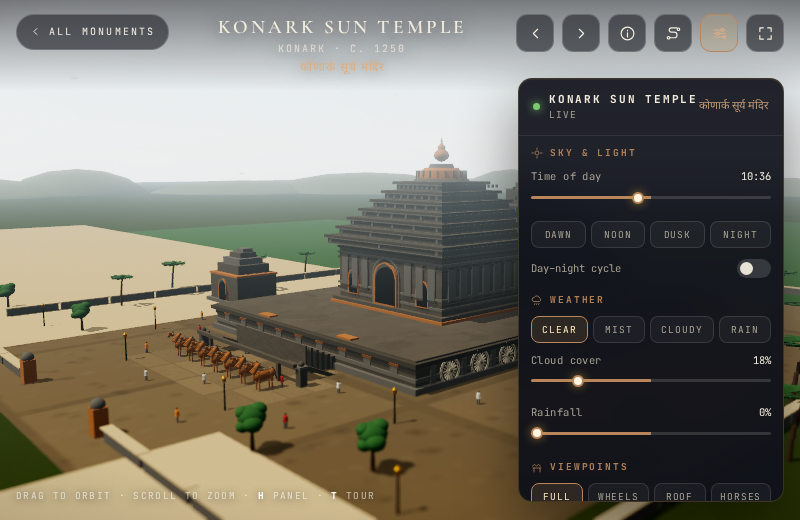
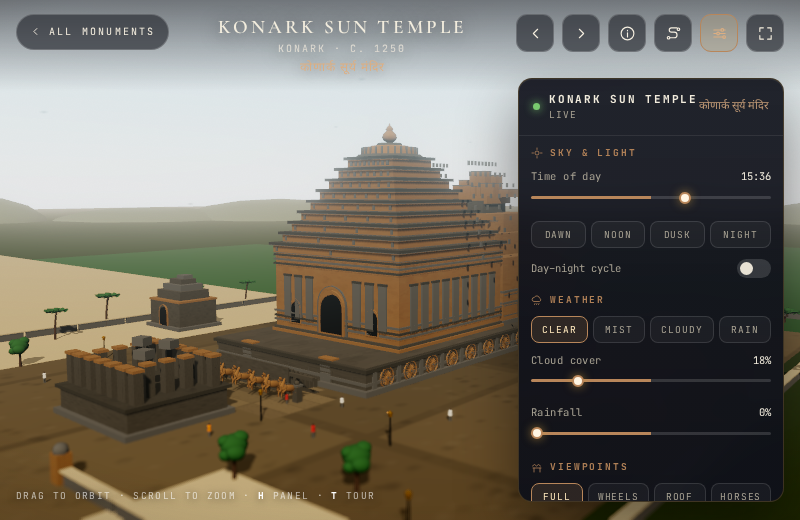
Sanchi and Konark: stone tinted to the real colour
Both were rendering orange because sandstoneBuff under a warm key and the
grade pushes to terracotta. Sanchi is pale sandstone, so its stone is tinted
0xdfd3b4 — the dome, the vedika and the four toranas now read as one pale
material. Konark is khondalite, a grey-brown, tinted 0xbfae92.

Neither was a geometry fault; the models were right and the colour was not.

diff --git a/assets/js/monuments/konark-sun-temple.js b/assets/js/monuments/konark-sun-temple.js
@@ -72,6 +72,8 @@ export default {
 
   build(ctx) {
     const { add, box, cyl, sph, cone, torus, block, col, plane } = ctx;
+    // khondalite is a grey-brown stone, not terracotta
+    const PALE = (() => { const mm = ctx.mat('sandstoneBuff'); if (!mm || !mm.clone) return 'sandstoneBuff'; const c = mm.clone(); c.color.setHex(0xbfae92); return c; })();
     const PI = Math.PI;
     const arch = ctx.arch, archFrame = ctx.archFrame;
 
@@ -106,12 +108,12 @@ export default {
     const WR = 1.485;                 // 2.97 m diameter
     function wheel(cx, cy, cz, side) {
       const x = cx * side;
-      add('sandstoneBuff', torus(WR, 0.17, 6, 24), x, cy, cz, { ry: PI / 2 });
+      add(PALE, torus(WR, 0.17, 6, 24), x, cy, cz, { ry: PI / 2 });
       add('granite', torus(WR * 0.79, 0.09, 5, 20), x, cy, cz, { ry: PI / 2 });
-      add('sandstoneBuff', cyl(0.40, 0.40, 0.55, 10), x, cy, cz, { rz: PI / 2 });
+      add(PALE, cyl(0.40, 0.40, 0.55, 10), x, cy, cz, { rz: PI / 2 });
       add('grey', cyl(0.20, 0.20, 0.68, 8), x, cy, cz, { rz: PI / 2 });
       for (let i = 0; i < 8; i++) {
-        add('sandstoneBuff', box(0.17, WR * 1.5, 0.13), x, cy, cz, { rx: (i * PI) / 8 });
+        add(PALE, box(0.17, WR * 1.5, 0.13), x, cy, cz, { rx: (i * PI) / 8 });
       }
       // beaded rim, sixteen blocks
       for (let i = 0; i < 16; i++) {
@@ -128,7 +130,7 @@ export default {
     for (let side = -1; side <= 1; side += 2) {
       for (let i = 0; i < 7; i++) {
         add('grey', box(1.6, 1.5, 0.22), -14.4 + i * 4.8, 2.3, (PZ - 0.15) * side);
-        add('sandstoneBuff', box(2.0, 0.26, 0.28), -14.4 + i * 4.8, 3.15, (PZ - 0.1) * side);
+        add(PALE, box(2.0, 0.26, 0.28), -14.4 + i * 4.8, 3.15, (PZ - 0.1) * side);
       }
     }
 
@@ -137,7 +139,7 @@ export default {
     for (const s of [-1, 1]) {
       block('granite', 2.8, 0.5, 9.0, s * 9.6, 0, 38.6, { rx: -0.4 });
       block('granite', 2.8, TOP, 1.2, s * 9.6, 0, 34.4);
-      block('sandstoneBuff', 3.1, 0.45, 1.5, s * 9.6, TOP, 34.4);
+      block(PALE, 3.1, 0.45, 1.5, s * 9.6, TOP, 34.4);
       for (let i = 0; i < 4; i++) block('grey', 2.2, 0.5, 0.5, s * 9.6, 1.0 + i * 0.75, 35.0);
       block('granite', 1.0, 2.4, 1.0, s * 12.4, 0, 43.4);
       block('grey', 1.3, 0.28, 1.3, s * 12.4, 2.4, 43.4);
@@ -146,11 +148,11 @@ export default {
     add('paving', plane(22, 11), 0, 0.12, 42.0, { rx: -PI / 2 });
 
     /* ---------- jagamohana: pitha and bada ----------------------------- */
-    block('sandstoneBuff', JW + 1.2, 0.7, JW + 1.2, 0, TOP, JZ);
+    block(PALE, JW + 1.2, 0.7, JW + 1.2, 0, TOP, JZ);
     block('granite', JW + 0.6, 0.5, JW + 0.6, 0, TOP + 0.7, JZ);
     block('grey', JW, PITH - TOP - 1.2, JW, 0, TOP + 1.2, JZ);
 
-    block('sandstoneBuff', JW, BADA - PITH, JW, 0, PITH, JZ);
+    block(PALE, JW, BADA - PITH, JW, 0, PITH, JZ);
     // horizontal mouldings, the bands of a Kalinga bada
     [[1.0, 'grey'], [1.7, 'stone'], [2.6, 'grey'], [11.4, 'stone'],
       [12.2, 'grey'], [13.0, 'stone']].forEach(([h, k]) => {
@@ -171,11 +173,11 @@ export default {
     }
     // the great eastern doorway
     add('dark', arch(5.2, 7.0, 0.6), 0, PITH, JZ + JW / 2 - 0.1);
-    add('sandstoneBuff', archFrame(6.2, 7.8, 0.45, 0.5), 0, PITH, JZ + JW / 2 + 0.05);
+    add(PALE, archFrame(6.2, 7.8, 0.45, 0.5), 0, PITH, JZ + JW / 2 + 0.05);
     add('grey', archFrame(7.2, 8.6, 0.3, 0.35), 0, PITH, JZ + JW / 2 + 0.02);
     for (const s of [-1, 1]) {
       add('dark', arch(2.3, 4.0, 0.4), s * 9.4, PITH + 0.9, JZ + JW / 2 - 0.1);
-      add('sandstoneBuff', archFrame(3.0, 4.6, 0.26, 0.3), s * 9.4, PITH + 0.9, JZ + JW / 2 + 0.05);
+      add(PALE, archFrame(3.0, 4.6, 0.26, 0.3), s * 9.4, PITH + 0.9, JZ + JW / 2 + 0.05);
     }
 
     /* ---------- roof: nine pidha tiers in three stages ------------------
@@ -187,7 +189,7 @@ export default {
     for (let i = 0; i < TIERS; i++) {
       const w = 30.6 - i * 2.45;
       const dh = tierH - 0.5;
-      block('sandstoneBuff', w, dh, w, 0, ry, JZ);                    // drum
+      block(PALE, w, dh, w, 0, ry, JZ);                    // drum
       block('grey', w + 0.14, 0.12, w + 0.14, 0, ry + 0.02, JZ);      // shadow line
       block('stone', w + 1.15, 0.5, w + 1.15, 0, ry + dh, JZ);        // potika cornice
       block('grey', w + 1.22, 0.1, w + 1.22, 0, ry + dh - 0.06, JZ);  // under-cut
@@ -208,24 +210,24 @@ export default {
         block('grey', tw - 0.2, 0.55, tw - 0.2, 0, ry - 0.1, JZ);
         for (let k = 0; k < 8; k++) {
           const t3 = -tw / 2 + 1.6 + k * ((tw - 3.2) / 7);
-          add('sandstoneBuff', box(0.5, 0.9, 0.5), t3, ry + 0.3, JZ + tw / 2 - 0.5);
-          add('sandstoneBuff', box(0.5, 0.9, 0.5), t3, ry + 0.3, JZ - tw / 2 + 0.5);
+          add(PALE, box(0.5, 0.9, 0.5), t3, ry + 0.3, JZ + tw / 2 - 0.5);
+          add(PALE, box(0.5, 0.9, 0.5), t3, ry + 0.3, JZ - tw / 2 + 0.5);
         }
       }
     }
 
     /* ---------- amalaka, beki and kalasha ------------------------------ */
     add('granite', cyl(5.8, 6.4, 0.5, 24), 0, AMALA - 1.75, JZ);
-    add('sandstoneBuff', cyl(5.0, 5.3, 1.3, 28), 0, AMALA - 0.85, JZ);
+    add(PALE, cyl(5.0, 5.3, 1.3, 28), 0, AMALA - 0.85, JZ);
     // the fluted rim of the crown stone
     for (let i = 0; i < 28; i++) {
       const a = (i / 28) * PI * 2;
       add('grey', box(0.44, 1.28, 0.36), Math.cos(a) * 5.1, AMALA - 0.85, JZ + Math.sin(a) * 5.1, { ry: -a });
     }
-    add('sandstoneBuff', cyl(3.4, 4.4, 0.42, 20), 0, AMALA - 0.1, JZ);   // beki
+    add(PALE, cyl(3.4, 4.4, 0.42, 20), 0, AMALA - 0.1, JZ);   // beki
     add('granite', cyl(2.2, 2.6, 0.7, 16), 0, AMALA + 0.28, JZ);
     // the kalasha: a pot, a flared mouth and a spike
-    add('sandstoneBuff', ctx.lathe([[0.06, 0], [0.55, 0.12], [1.15, 0.55], [1.4, 1.05],
+    add(PALE, ctx.lathe([[0.06, 0], [0.55, 0.12], [1.15, 0.55], [1.4, 1.05],
       [1.22, 1.65], [0.78, 2.05], [0.58, 2.3], [0.74, 2.6], [0.46, 2.95], [0.16, 3.35],
       [0.06, 3.7]], 16), 0, AMALA + 0.6, JZ);
     add('gold', cone(0.24, 0.85, 8), 0, KAL + 0.3, JZ);
@@ -233,13 +235,13 @@ export default {
     /* ---------- the broken deul behind: a rough, collapsed mass -------- */
     const DZ = -22;
     block('grey', 30.4, 1.0, 30.4, 0, TOP, DZ);
-    block('sandstoneBuff', 30.0, 5.4, 30.0, 0, TOP + 1.0, DZ);
+    block(PALE, 30.0, 5.4, 30.0, 0, TOP + 1.0, DZ);
     block('grey', 30.4, 0.4, 30.4, 0, TOP + 4.2, DZ);
     block('grey', 30.4, 0.4, 30.4, 0, TOP + 6.4, DZ);
-    block('sandstoneBuff', 29.6, 6.4, 29.6, 0, TOP + 6.8, DZ);
+    block(PALE, 29.6, 6.4, 29.6, 0, TOP + 6.8, DZ);
     // offset upper masses, each smaller and shifted, as if fallen in on itself
-    block('sandstoneBuff', 24.0, 4.4, 23.0, -0.8, TOP + 13.2, DZ + 0.6);
-    block('sandstoneBuff', 16.5, 3.8, 15.5, 1.4, TOP + 17.6, DZ - 1.2);
+    block(PALE, 24.0, 4.4, 23.0, -0.8, TOP + 13.2, DZ + 0.6);
+    block(PALE, 16.5, 3.8, 15.5, 1.4, TOP + 17.6, DZ - 1.2);
     block('granite', 10.0, 2.6, 9.0, -1.2, TOP + 21.4, DZ + 1.0);
     // masonry courses, shallow and irregular
     for (let i = 0; i < 10; i++) {
@@ -257,10 +259,10 @@ export default {
     // jagged broken crown
     const jag = [[-4.6, 3.6, 1.8], [-1.8, 2.2, 2.6], [1.0, 4.6, 1.3], [3.2, 2.8, 2.2],
       [5.0, 1.6, 3.0], [-3.2, 2.4, 2.8], [2.4, 1.4, 3.4], [0.2, 5.4, 1.1]];
-    block('sandstoneBuff', 10.4, 1.6, 9.4, -0.6, TOP + 23.4, DZ + 0.4);
+    block(PALE, 10.4, 1.6, 9.4, -0.6, TOP + 23.4, DZ + 0.4);
     jag.forEach(([x, h, d], i) => {
       const zz = DZ + ((i % 2) ? 1.2 : -1.4);
-      block('sandstoneBuff', 3.2 + (i % 3) * 0.8, h, d + 1.4, x, TOP + 24.8, zz);
+      block(PALE, 3.2 + (i % 3) * 0.8, h, d + 1.4, x, TOP + 24.8, zz);
       block('grey', 3.4 + (i % 3) * 0.8, 0.18, d + 1.6, x, TOP + 24.8 + h, zz);
     });
     // slumped shoulders of masonry
@@ -284,13 +286,13 @@ export default {
       for (let i = -3; i <= 3; i++) {
         for (const s of [-1, 1]) {
           block('granite', 1.3, 4.0, 1.3, i * 2.7, 4.05, cz + s * 5.6);
-          block('sandstoneBuff', 1.6, 0.36, 1.6, i * 2.7, 8.05, cz + s * 5.6);
+          block(PALE, 1.6, 0.36, 1.6, i * 2.7, 8.05, cz + s * 5.6);
         }
       }
       for (let i = -2; i <= 2; i++) {
         for (const s of [-1, 1]) {
           block('granite', 1.3, 4.0, 1.3, s * 6.0, 4.05, cz + i * 2.8);
-          block('sandstoneBuff', 1.6, 0.36, 1.6, s * 6.0, 8.05, cz + i * 2.8);
+          block(PALE, 1.6, 0.36, 1.6, s * 6.0, 8.05, cz + i * 2.8);
         }
       }
       // stumps of the fallen roof
@@ -314,7 +316,7 @@ export default {
         const [px, pz] = P(dx, dz);
         add(k, sph(1, 12), px, dy * s, pz, Object.assign({ ry, sx: a * s, sy: b * s, sz: cc * s }, o || {}));
       };
-      const B = 'sandstoneBuff', G = 'granite';
+      const B = PALE, G = 'granite';
       /* barrel, chest and rump: the body is carried at a slight angle, the
          horse rearing, so the chest rides higher than the quarters */
       ell(B, 0, 2.12, 0.05, 0.42, 0.50, 1.00, { rx: -0.20 });
@@ -361,9 +363,9 @@ export default {
     (function shrine(cx, cz) {
       block('grey', 13, 0.8, 11, cx, 0, cz);
       block('granite', 11.4, 5.2, 9.4, cx, 0.8, cz);
-      block('sandstoneBuff', 11.8, 0.4, 9.8, cx, 6.0, cz);
+      block(PALE, 11.8, 0.4, 9.8, cx, 6.0, cz);
       add('dark', arch(2.6, 4.0, 0.4), cx, 0.8, cz + 4.8);
-      add('sandstoneBuff', archFrame(3.3, 4.6, 0.26, 0.3), cx, 0.8, cz + 4.9);
+      add(PALE, archFrame(3.3, 4.6, 0.26, 0.3), cx, 0.8, cz + 4.9);
       block('granite', 9.0, 1.9, 7.4, cx, 6.4, cz);
       block('grey', 7.0, 1.3, 5.6, cx, 8.3, cz);
       block('granite', 4.6, 1.1, 3.8, cx, 9.6, cz);
@@ -390,7 +392,7 @@ export default {
         }
       }
       for (const s of [-1, 1]) {
-        block('sandstoneBuff', 1.6, 3.2, 1.6, s * 15, 0, D);
+        block(PALE, 1.6, 3.2, 1.6, s * 15, 0, D);
         add('grey', sph(0.85, 8), s * 15, 3.4, D);
       }
     })();

diff --git a/monuments/sanchi-stupa.html b/monuments/sanchi-stupa.html
@@ -8,8 +8,8 @@
 <meta name="theme-color" content="#b8a888">
 <meta name="author" content="Dr Sohil Momin">
 <link rel="icon" href="../assets/img/favicon.svg" type="image/svg+xml">
-<link rel="stylesheet" href="../assets/css/fonts.css?v=72d9b489f8">
-<link rel="stylesheet" href="../assets/css/monument.css?v=72d9b489f8">
+<link rel="stylesheet" href="../assets/css/fonts.css?v=94f1bac383">
+<link rel="stylesheet" href="../assets/css/monument.css?v=94f1bac383">
 <meta property="og:type" content="website">
 <meta property="og:title" content="Sanchi Stupa — 3D miniature · INDIA">
 <meta property="og:description" content="Ashoka&#x27;s hemispherical relic mound, ringed by a stone railing and four carved gateways on a hill above the plain.">
@@ -31,11 +31,11 @@
 <div id="app"></div>
 <noscript><div class="noscript">This page renders Sanchi Stupa as a live 3D model and needs JavaScript and WebGL. You can still read about the monument on <a href="https://en.wikipedia.org/wiki/Sanchi">Wikipedia</a>.</div></noscript>
 
-<script src="../assets/js/index-data.js?v=72d9b489f8"></script>
+<script src="../assets/js/index-data.js?v=94f1bac383"></script>
 <script>window.MONUMENT_DATA = {"name": "Sanchi Stupa", "deva": "साँची का स्तूप", "place": "Sanchi", "state": "Madhya Pradesh", "era": "Mauryan · 3rd century BCE", "period": "3rd c. BCE onward", "style": "Buddhist stupa architecture", "unesco": "UNESCO World Heritage Site (1989)", "wikipedia": "https://en.wikipedia.org/wiki/Sanchi", "history": ["The Great Stupa at Sanchi was commissioned by the Mauryan emperor Ashoka in the 3rd century BCE. Its core was a simple hemispherical brick dome raised over relics of the Buddha, crowned by a chatra, the parasol that marks a place of honour.", "Under later dynasties the stupa was enlarged to roughly twice its original size and faced in stone. A stone vedika, or railing, was built around the dome and the terrace, and four carved toranas were added at the cardinal points in the 1st century BCE, their lintels crowded with scenes from the life of the Buddha.", "The site grew into a complex of monasteries, temples and smaller stupas that was occupied for more than a thousand years before being abandoned. Rediscovered and conserved in the nineteenth and twentieth centuries, it became a UNESCO World Heritage Site in 1989."], "facts": [{"k": "Commissioned by", "v": "Ashoka, 3rd century BCE"}, {"k": "Dome", "v": "Hemispherical brick, faced in stone"}, {"k": "Gateways", "v": "Four carved toranas, 1st c. BCE"}, {"k": "Setting", "v": "Hilltop at Sanchi, Raisen district"}, {"k": "Complex", "v": "Monasteries, temples, smaller stupas"}, {"k": "UNESCO", "v": "1989 · ref. 524"}], "links": [{"label": "Wikipedia", "href": "https://en.wikipedia.org/wiki/Sanchi"}, {"label": "UNESCO listing", "href": "https://whc.unesco.org/en/list/524/"}, {"label": "MP tourism", "href": "https://www.mptourism.com/"}], "image": {"file": "East_Gateway_-_Stupa_1_-_Sanchi_Hill_2013-02-21_4398.JPG", "artist": "Biswarup Ganguly", "license": "CC BY 3.0", "licenseUrl": "https://creativecommons.org/licenses/by/3.0", "page": "https://commons.wikimedia.org/wiki/File:East_Gateway_-_Stupa_1_-_Sanchi_Hill_2013-02-21_4398.JPG", "src": "assets/img/sanchi.jpg"}};</script>
 <script type="module">
-  import { boot } from '../assets/js/monument-engine.js?v=72d9b489f8';
-  import monument from '../assets/js/monuments/sanchi-stupa.js?v=72d9b489f8';
+  import { boot } from '../assets/js/monument-engine.js?v=94f1bac383';
+  import monument from '../assets/js/monuments/sanchi-stupa.js?v=94f1bac383';
   boot(monument);
 </script>
 </body>

diff --git a/monuments/konark-sun-temple.html b/monuments/konark-sun-temple.html
@@ -8,8 +8,8 @@
 <meta name="theme-color" content="#b8865a">
 <meta name="author" content="Dr Sohil Momin">
 <link rel="icon" href="../assets/img/favicon.svg" type="image/svg+xml">
-<link rel="stylesheet" href="../assets/css/fonts.css?v=81a0b42789">
-<link rel="stylesheet" href="../assets/css/monument.css?v=81a0b42789">
+<link rel="stylesheet" href="../assets/css/fonts.css?v=d085b8e163">
+<link rel="stylesheet" href="../assets/css/monument.css?v=d085b8e163">
 <meta property="og:type" content="website">
 <meta property="og:title" content="Konark Sun Temple — 3D miniature · INDIA">
 <meta property="og:description" content="A stone chariot for the sun god, with 24 carved wheels, seven horses and a tower that once stood 61 metres high.">
@@ -31,11 +31,11 @@
 <div id="app"></div>
 <noscript><div class="noscript">This page renders Konark Sun Temple as a live 3D model and needs JavaScript and WebGL. You can still read about the monument on <a href="https://en.wikipedia.org/wiki/Konark_Sun_Temple">Wikipedia</a>.</div></noscript>
 
-<script src="../assets/js/index-data.js?v=81a0b42789"></script>
+<script src="../assets/js/index-data.js?v=d085b8e163"></script>
 <script>window.MONUMENT_DATA = {"name": "Konark Sun Temple", "deva": "कोणार्क सूर्य मंदिर", "place": "Konark", "state": "Odisha", "era": "Eastern Ganga · c. 1250", "period": "c. 1250", "style": "Kalinga architecture", "unesco": "UNESCO World Heritage Site (1984)", "wikipedia": "https://en.wikipedia.org/wiki/Konark_Sun_Temple", "history": ["Narasingha Deva I of the Eastern Ganga dynasty built the Sun Temple at Konark around 1250, on the Odisha coast about 35 kilometres from Puri. It was conceived as the chariot of Surya, with twenty-four great stone wheels, seven horses and a vast processional stair.", "The main sanctuary tower, the deul, is estimated to have risen over 61 metres; it collapsed long ago, and the surviving jagamohana, the assembly hall, stands about 30 metres high with its pyramidal roof of tiers. The whole structure was once set in a walled compound with subsidiary shrines.", "Its surfaces are carved with dancers, musicians, elephants and mythical beasts, with the kama and mithuna scenes for which the temple is famous, and bands of geometric ornament between them. The site was inscribed as a UNESCO World Heritage Site in 1984 and is one of the finest examples of Kalinga architecture."], "facts": [{"k": "Built", "v": "c. 1250 CE"}, {"k": "Commissioned by", "v": "Narasingha Deva I"}, {"k": "Form", "v": "Chariot of Surya, 24 wheels"}, {"k": "Surviving height", "v": "About 30 m of the assembly hall"}, {"k": "Style", "v": "Kalinga, Eastern Ganga"}, {"k": "UNESCO", "v": "1984 · ref. 246"}], "links": [{"label": "Wikipedia", "href": "https://en.wikipedia.org/wiki/Konark_Sun_Temple"}, {"label": "UNESCO listing", "href": "https://whc.unesco.org/en/list/246/"}, {"label": "Odisha tourism", "href": "https://odishatourism.gov.in/"}], "image": {"file": "Konarka_Temple.jpg", "artist": "Subham9423", "license": "CC BY-SA 4.0", "licenseUrl": "https://creativecommons.org/licenses/by-sa/4.0", "page": "https://commons.wikimedia.org/wiki/File:Konarka_Temple.jpg", "src": "assets/img/konark-sun-temple.jpg"}};</script>
 <script type="module">
-  import { boot } from '../assets/js/monument-engine.js?v=81a0b42789';
-  import monument from '../assets/js/monuments/konark-sun-temple.js?v=81a0b42789';
+  import { boot } from '../assets/js/monument-engine.js?v=d085b8e163';
+  import monument from '../assets/js/monuments/konark-sun-temple.js?v=d085b8e163';
   boot(monument);
 </script>
 </body>

diff --git a/assets/js/monuments/sanchi-stupa.js b/assets/js/monuments/sanchi-stupa.js
@@ -74,6 +74,8 @@ export default {
 
   build(ctx) {
     const { add, box, cyl, sph, cone, torus, block, col, plane, dome } = ctx;
+    // the site is pale sandstone, not orange
+    const PALE = (() => { const mm = ctx.mat('sandstoneBuff'); if (!mm || !mm.clone) return 'sandstoneBuff'; const c = mm.clone(); c.color.setHex(0xdfd3b4); return c; })();
     const PI = Math.PI;
     const arch = ctx.arch;
 
@@ -185,14 +187,14 @@ export default {
       for (const s of [-1, 1]) {
         const px = s * 1.5;
         blk('granite', 1.35, 0.45, 1.35, px, 0, 0);                  // footing
-        blk('sandstoneBuff', 0.8, 4.17, 0.8, px, 0.45, 0);           // shaft
+        blk(PALE, 0.8, 4.17, 0.8, px, 0.45, 0);           // shaft
         // carved panels on both faces
         for (let i = 0; i < 5; i++) {
           blk('granite', 0.86, 0.42, 0.16, px, 1.15 + i * 0.72, 0.44);
           blk('granite', 0.86, 0.42, 0.16, px, 1.15 + i * 0.72, -0.44);
         }
         blk('stone', 0.95, 0.24, 0.95, px, 2.05, 0);                 // mid band
-        blk('sandstoneBuff', 1.05, 1.37, 1.05, px, 4.62, 0);         // capital
+        blk(PALE, 1.05, 1.37, 1.05, px, 4.62, 0);         // capital
         blk('granite', 1.2, 0.2, 1.2, px, 5.99, 0);
         // the lion / elephant / dwarf group on the abacus
         blk('stone', 0.62, 0.5, 0.62, px, 6.19, 0);
@@ -201,10 +203,10 @@ export default {
       const beams = [[6.0, 0.84, 0], [5.4, 0.72, 1.42], [4.8, 0.58, 2.72]];
       beams.forEach(([len, hgt, dy], bi) => {
         const y = 6.69 + dy;
-        blk('sandstoneBuff', len, hgt, 1.05, 0, y, 0);
+        blk(PALE, len, hgt, 1.05, 0, y, 0);
         blk('stone', len - 0.4, 0.16, 1.15, 0, y + hgt, 0);
         for (const s of [-1, 1]) {
-          put('sandstoneBuff', torus(hgt * 0.62, 0.2, 6, 14), s * (len / 2 + 0.22), y + hgt * 0.5, 0);
+          put(PALE, torus(hgt * 0.62, 0.2, 6, 14), s * (len / 2 + 0.22), y + hgt * 0.5, 0);
           put('granite', cyl(0.26, 0.26, 1.1, 10), s * (len / 2 + 0.22), y + hgt * 0.5, 0, { rx: PI / 2 });
           for (let i = 0; i < 5; i++) {
             blk('stone', 0.5, 0.26, 0.2, -len / 2 + 1.1 + i * ((len - 2.2) / 4), y + 0.06, 0.56);
@@ -273,7 +275,7 @@ export default {
       }
       block('stone', 5.0, 0.5, 5.0, cx, 0.6, cz - 2);
       block('granite', 4.2, 3.0, 4.2, cx, 1.1, cz - 2);
-      block('sandstoneBuff', 4.8, 0.45, 4.8, cx, 4.1, cz - 2);
+      block(PALE, 4.8, 0.45, 4.8, cx, 4.1, cz - 2);
       add('dark', plane(1.3, 1.9), cx, 2.2, cz + 0.15);
     })(-50, 4);
 
@@ -282,7 +284,7 @@ export default {
       block('stone', 4.4 * s, 0.6 * s, 4.4 * s, x, 0, z);
       col('granite', 3.2 * s, 3.4 * s, 0.7 * s, x, 0.6 * s, z, 20);
       add('granite', dome(3.2 * s, 2.4 * s, 20), x, 1.3 * s, z);
-      block('sandstoneBuff', 1.4 * s, 0.9 * s, 1.4 * s, x, 3.7 * s, z);
+      block(PALE, 1.4 * s, 0.9 * s, 1.4 * s, x, 3.7 * s, z);
       add('stone', cyl(1.2 * s, 1.2 * s, 0.16 * s, 12), x, 4.7 * s, z);
       add('stone', cyl(0.85 * s, 0.85 * s, 0.14 * s, 12), x, 5.2 * s, z);
       add('stone', cyl(0.12 * s, 0.14 * s, 1.2 * s, 6), x, 5.9 * s, z);
